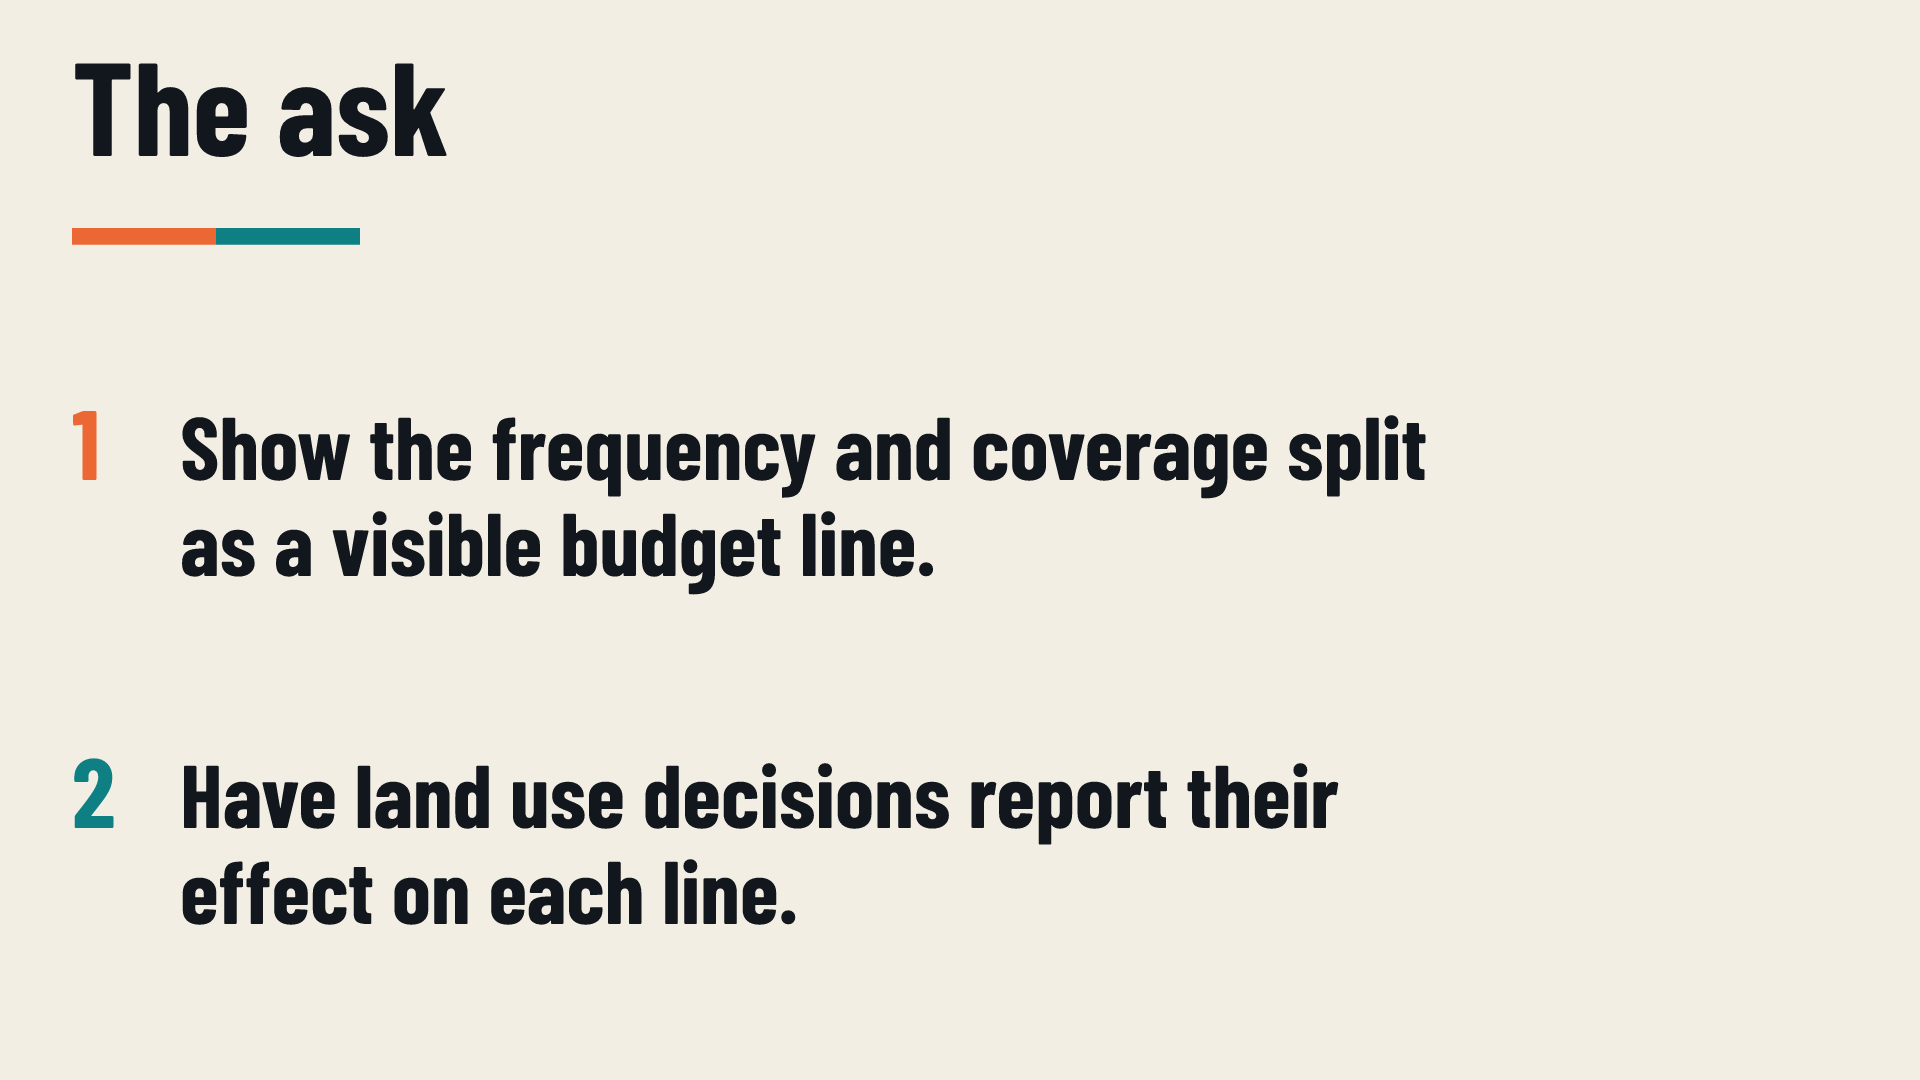
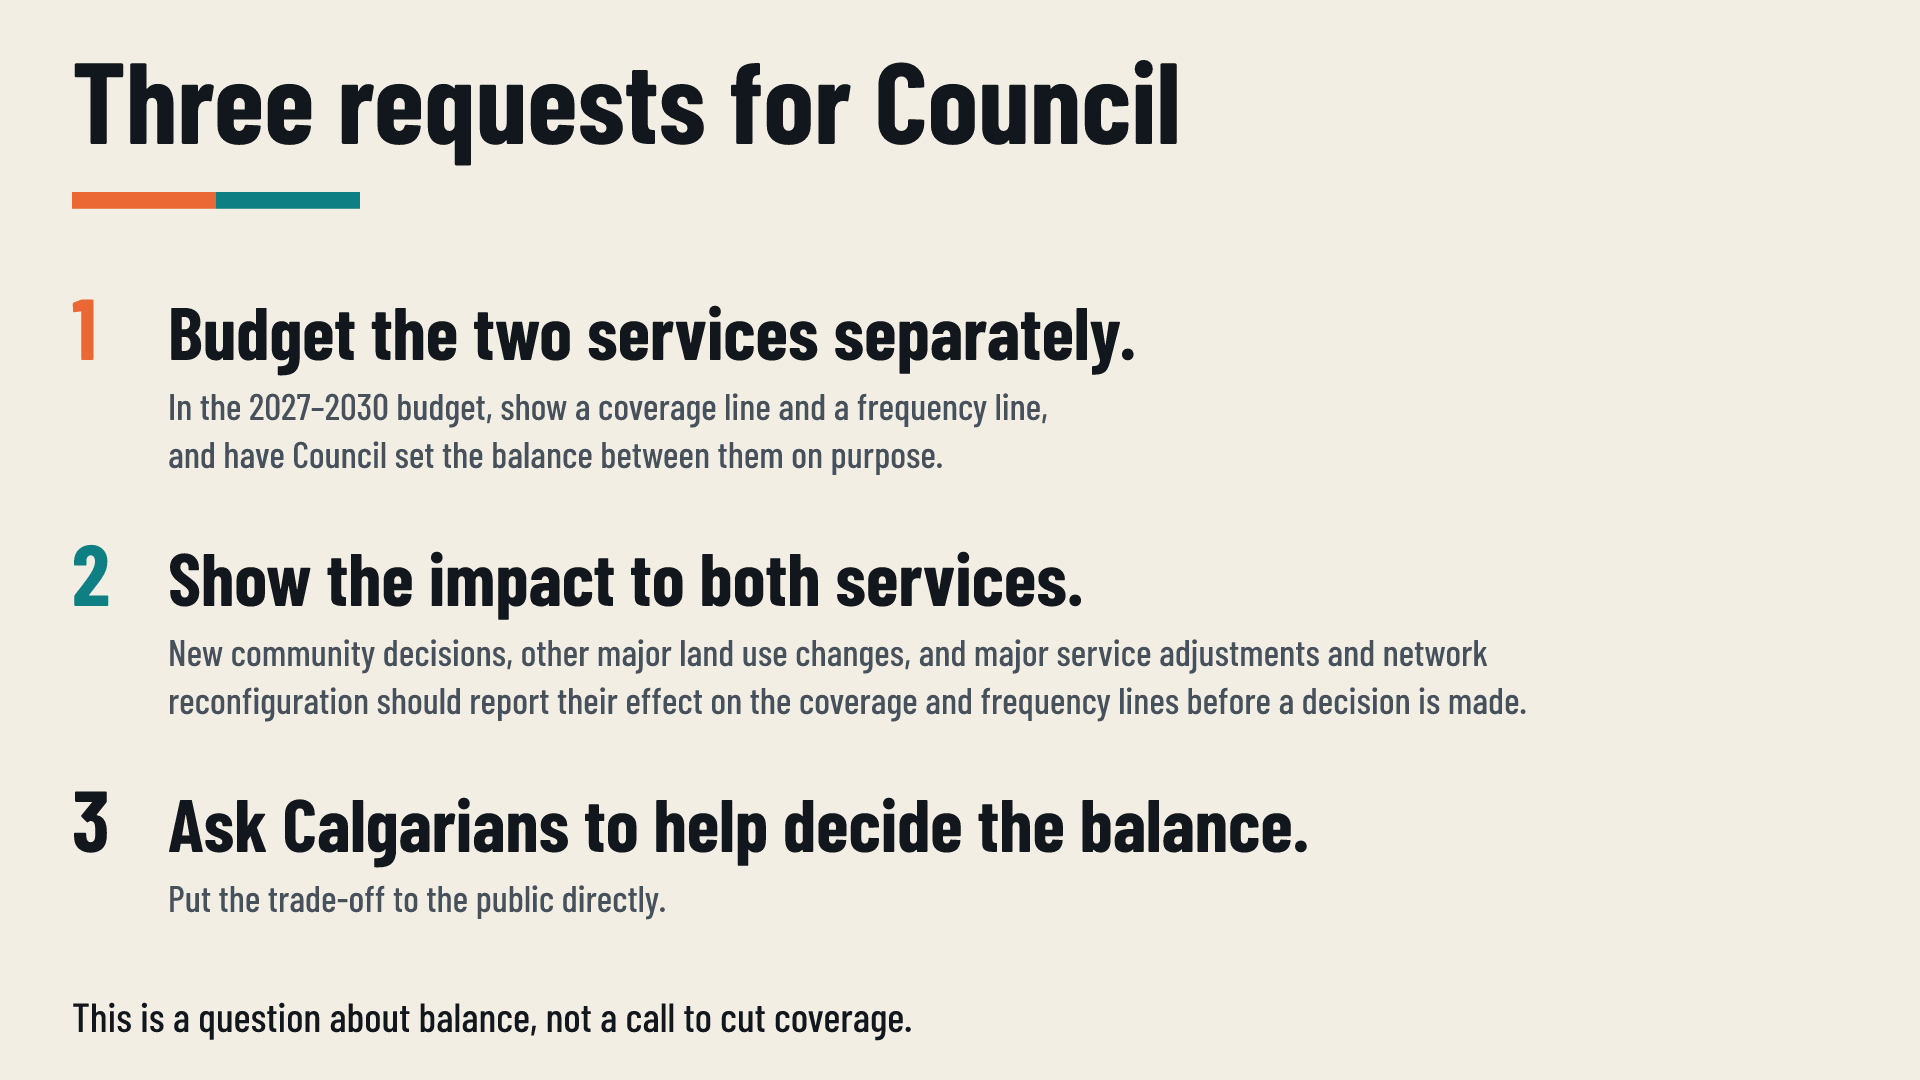
Regenerate s7_the_ask with the three requests
Claude-Session: https://claude.ai/code/session_016kdpoJE4wWqEnMGuNdwwpu

diff --git a/scripts/make_assets.py b/scripts/make_assets.py
@@ -407,11 +407,25 @@ def slide_s6():
     svg_slide("s6_land_use_diagram", b)
 
 
+ASKS = [
+    ("Budget the two services separately.",
+     ["In the 2027–2030 budget, show a coverage line and a frequency line,", "and have Council set the balance between them on purpose."]),
+    ("Show the impact to both services.",
+     ["New community decisions, other major land use changes, and major service adjustments and network",
+      "reconfiguration should report their effect on the coverage and frequency lines before a decision is made."]),
+    ("Ask Calgarians to help decide the balance.",
+     ["Put the trade-off to the public directly."]),
+]
+
+
 def slide_s7():
-    b = '<text x="60" y="130" class="b" font-size="110">The ask</text>'
-    b += f'<rect x="60" y="190" width="120" height="14" fill="{ORANGE}"/><rect x="180" y="190" width="120" height="14" fill="{TEAL}"/>'
-    b += f'<text x="60" y="400" class="b" font-size="82" style="fill:{ORANGE}">1</text><text x="150" y="400" class="b" font-size="74">Show the frequency and coverage split</text><text x="150" y="480" class="b" font-size="74">as a visible budget line.</text>'
-    b += f'<text x="60" y="690" class="b" font-size="82" style="fill:{TEAL}">2</text><text x="150" y="690" class="b" font-size="74">Have land use decisions report their</text><text x="150" y="770" class="b" font-size="74">effect on each line.</text>'
+    b = '<text x="60" y="120" class="b" font-size="96">Three requests for Council</text>'
+    b += f'<rect x="60" y="160" width="120" height="14" fill="{ORANGE}"/><rect x="180" y="160" width="120" height="14" fill="{TEAL}"/>'
+    for i, ((head, lines), c) in enumerate(zip(ASKS, (ORANGE, TEAL, INK))):
+        y = 300 + i * 205
+        b += f'<text x="60" y="{y}" class="b" font-size="72" style="fill:{c}">{i + 1}</text><text x="140" y="{y}" class="b" font-size="62">{head}</text>'
+        b += "".join(f'<text x="140" y="{y + 50 + j * 40}" class="m" font-size="31" style="fill:{INK2}">{t}</text>' for j, t in enumerate(lines))
+    b += f'<text x="60" y="860" class="m" font-size="34" style="fill:{INK}">This is a question about balance, not a call to cut coverage.</text>'
     svg_slide("s7_the_ask", b)
 
 

diff --git a/assets/README.md b/assets/README.md
@@ -25,7 +25,7 @@ Same method as the explorer page: frequent = every 10 minutes or better (15 for 
 | 06_map_2026_noon, 09_map_2026_noon_15min | 4. The network by job, at 10 and 15 minutes |
 | s5_covered_vs_frequent_area, 03_trend_area_10min, 07_map_years_noon | 5. Covered area up 10%, the 10-minute footprint flat |
 | s6_land_use_diagram | 6. Land use and budget decisions into the two lines |
-| s7_the_ask | 7. The ask |
+| s7_the_ask | 7. Three requests for Council |
 | s8_close_question | Close |
 
 Slide 3 (operating ratio) has no graphic. No chart shows population, because there is no single verified source for all three years.
